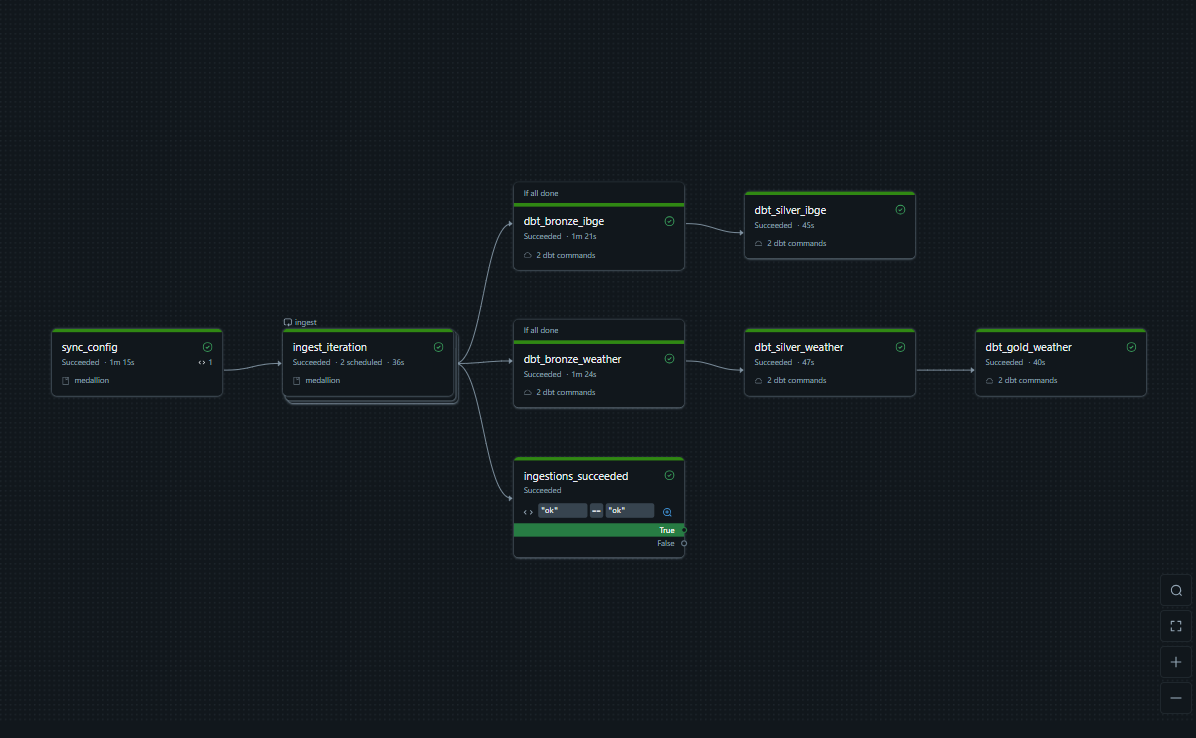
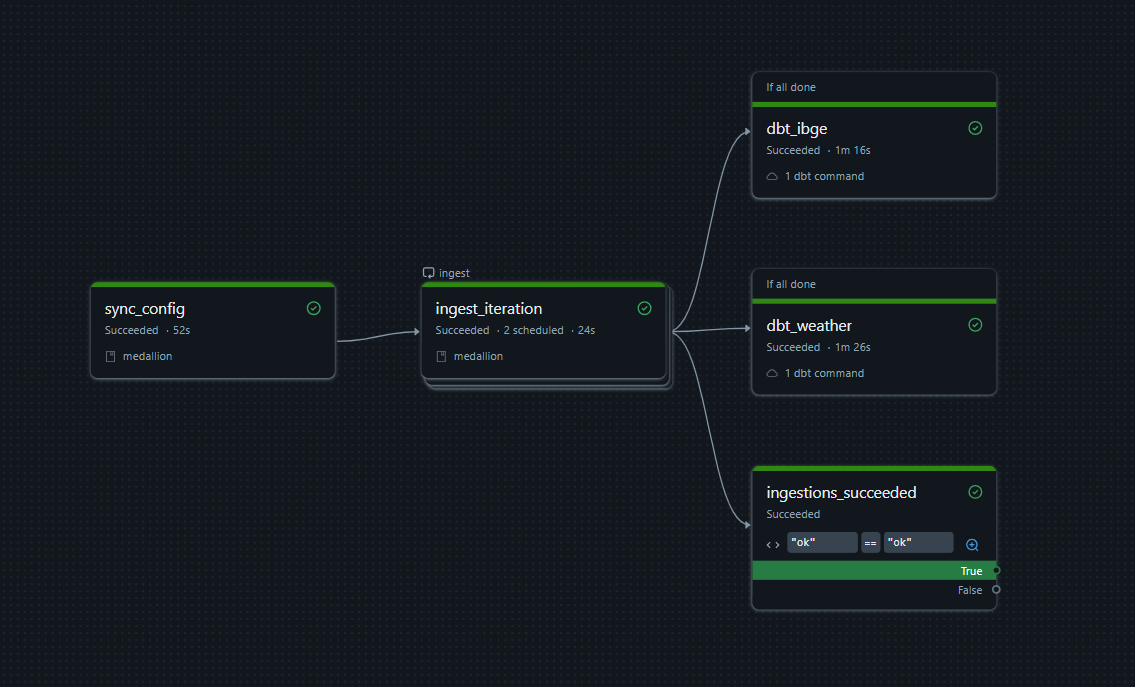
docs: job graph screenshot from the first Run with one dbt task per Source System

diff --git a/README.md b/README.md
@@ -97,8 +97,7 @@ e uma fonte com problema nunca bloqueia outra. As tarefas são geradas a partir 
 `make bundle`.
 
 Uma Run real no workspace: as duas Ingestions ativas rodam em paralelo no `ingest` (for-each), e
-cada Source System segue sua cadeia dbt até a gold. (Print de antes da unificação do dbt, quando
-havia uma tarefa por Layer.)
+depois uma tarefa dbt por Source System, também em paralelo, leva cada fonte até a gold.
 
 ![Grafo do job numa Run bem-sucedida no Databricks](docs/img/job-run.png)
 
